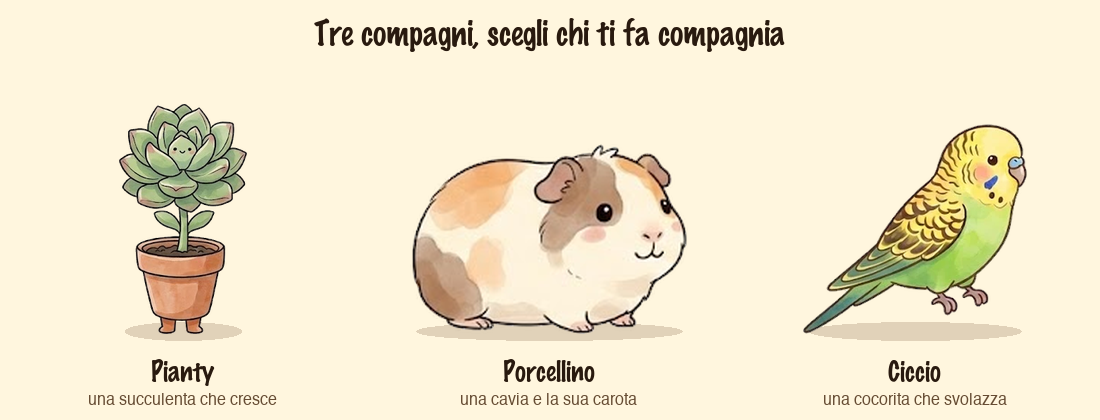
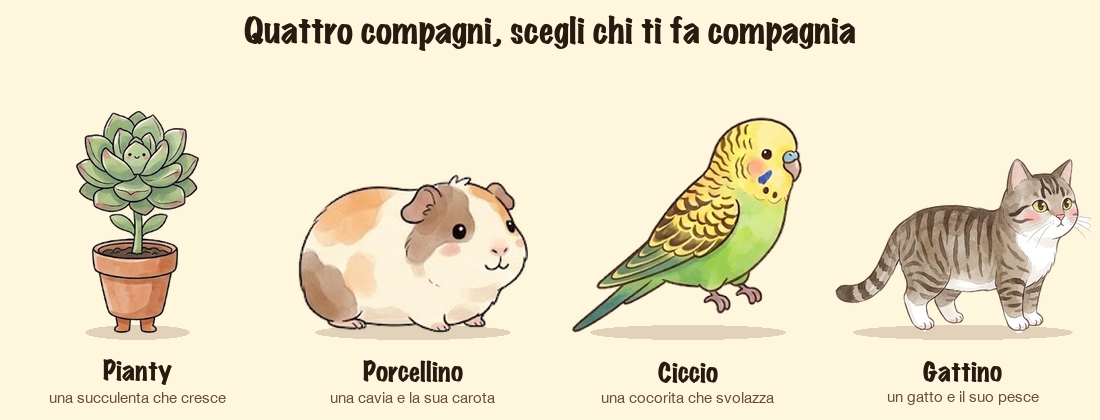
README: i quattro compagni, e le intestazioni delle frasi
- L'immagine dei compagni mostra anche il Gattino (titolo e testo alternativo
  aggiornati)
- Le intestazioni di frasi_porcellino.txt e frasi_ciccio.txt indicano la
  cartella FocusFriends invece di Bonsy

diff --git a/README.md b/README.md
@@ -10,7 +10,7 @@
 </p>
 
 <p align="center">
-  <img src="docs/images/compagni.png" width="720" alt="Pianty, Porcellino e Ciccio">
+  <img src="docs/images/compagni.png" width="720" alt="Pianty, Porcellino, Ciccio e il Gattino">
 </p>
 
 ## I compagni
